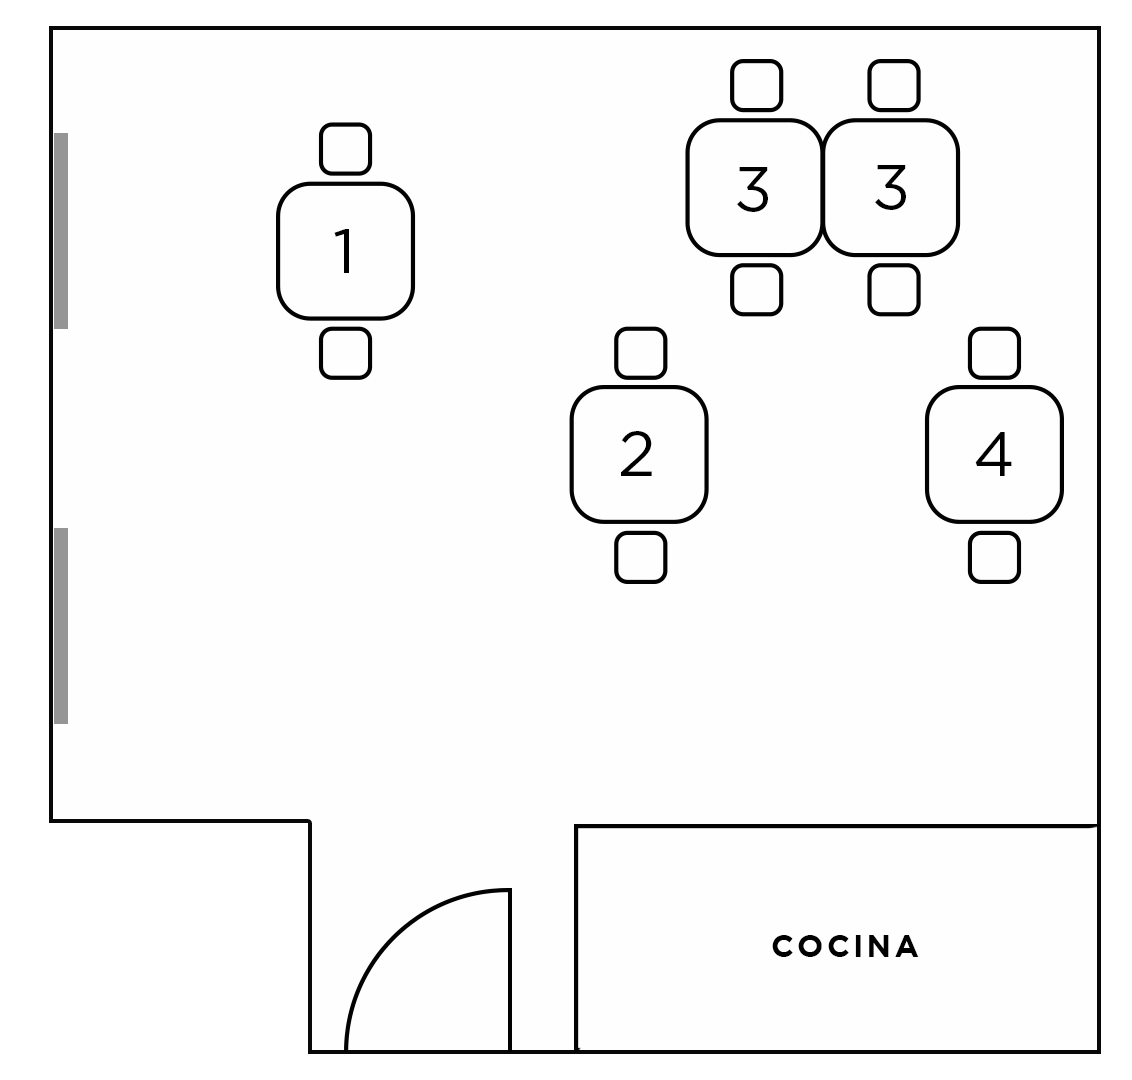
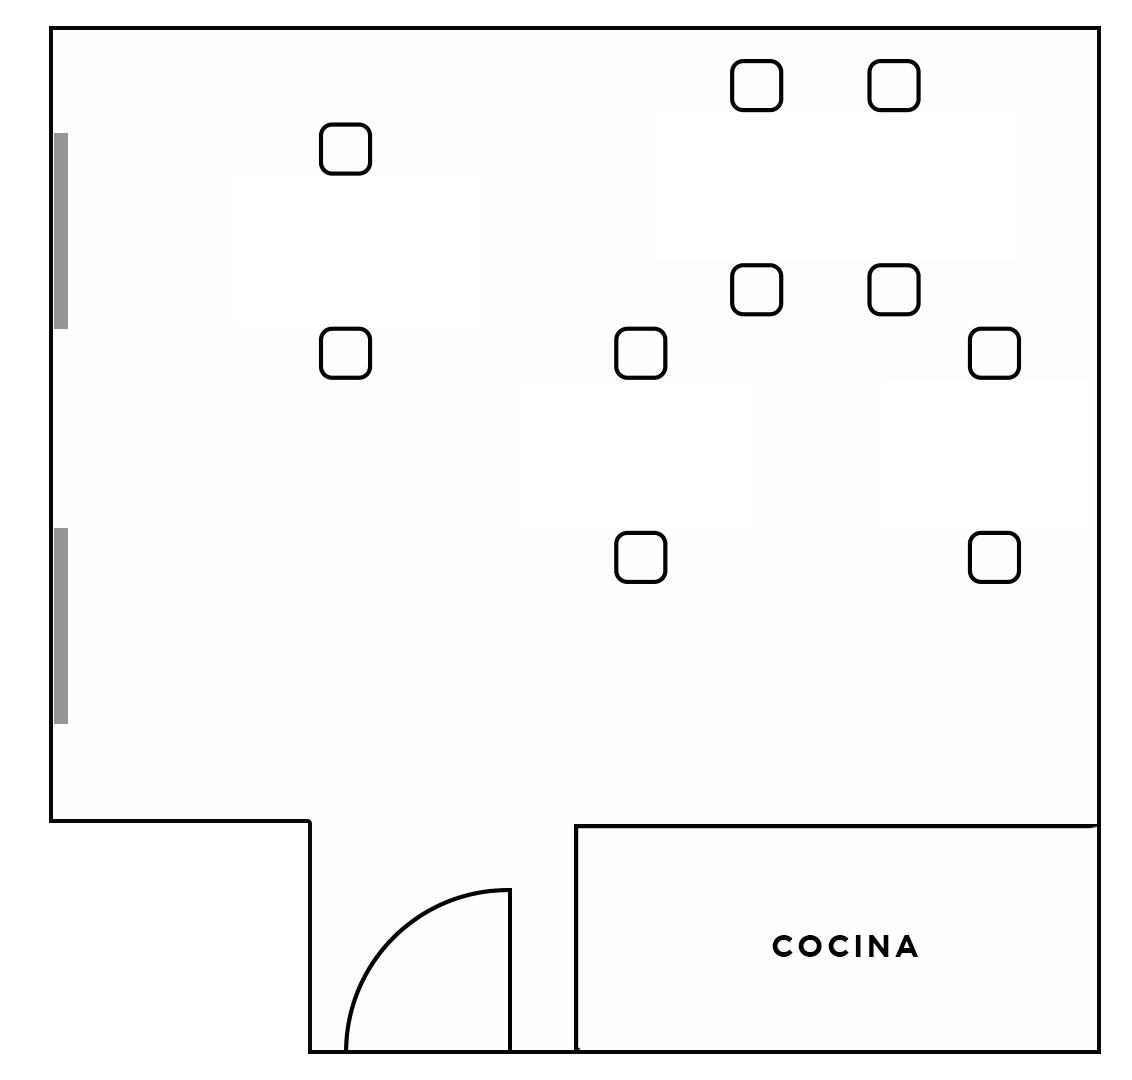
Some UI tweaks

diff --git a/public/stylesheets/style.css b/public/stylesheets/style.css
@@ -8,10 +8,32 @@ a {
 }
 #map {
   max-height: 90vh;
+  width: 925px;
 }
 #main {
   text-align: center;
+  position: relative;
+  display: inline-block;
 }
 .table_button {
-  position: relative;
+  float: left;
+  position: absolute;
+  background-color: white;
+  border: 4px solid black;
+  border-radius: 29px;
+  font-size: 37px;
+  width: 116px;
+  height: 116px;
+  box-shadow: 0 2px rgb(22, 22, 22);
+}
+.table_button:hover {
+  background-color: #00b7ff;
+}
+.table_button:active {
+  color: white;
+  box-shadow: 0 2px rgb(22, 22, 22);
+  transform: translateY(2px);
+}
+.table_double {
+  width: 226px;
 }

diff --git a/routes/index.js b/routes/index.js
@@ -8,11 +8,11 @@ router.get('/', function(req, res, next) {
 });
 
 router.post('/', (req, res) => {
-  let table = req.body.table
+  let table = req.body.table;
   console.log(table);
   res.send(200);
   shell.echo('Go to table '+table);
-  shell.exec('rosservice call /navegacion_autonoma_servicio mesa='+table)
+  shell.exec('rosservice call /navegacion_autonoma_servicio mesa='+table);
 });
 
 module.exports = router;
